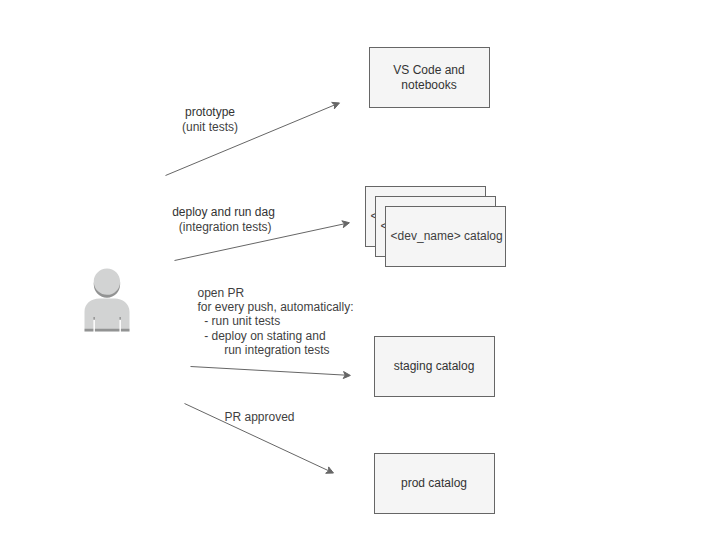
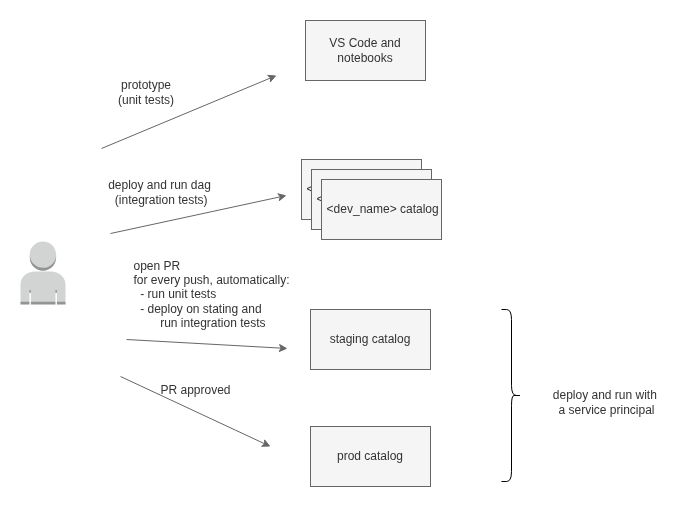
service principal (complement)

diff --git a/scripts/sdk_generate_template_job.py b/scripts/sdk_generate_template_job.py
@@ -93,7 +93,7 @@ def _build_job1(environment: str) -> dict:
         schedule = CronSchedule(quartz_cron_expression="0 0 5 * * ?", timezone_id="UTC")
 
     job = Job(
-        name="template_${bundle.target}",
+        name="job5_${bundle.target}",
         timeout_seconds=3600,
         tags=_tags(),
         environments=_environments(),
@@ -103,13 +103,14 @@ def _build_job1(environment: str) -> dict:
 
     d = job.as_dict()
     d["deployment"] = {"kind": "BUNDLE"}
-    if environment in ("staging", "prod"):
-        sp_id = _get_service_principal_id(SP_DISPLAY_NAME)
-        d["run_as"] = {"service_principal_name": sp_id}
+    # if environment in ("staging", "prod"):
+    #     sp_id = _get_service_principal_id(SP_DISPLAY_NAME)
+    #     d["run_as"] = {"service_principal_name": sp_id}
+    #     #d["permissions"] = [{"service_principal_name": sp_id, "level": "CAN_MANAGE"}]
     return d
 
 
-def _build_integration_test_job() -> dict:
+def _build_job1_integration_test(environment: str) -> dict:
     tasks = [
         Task(
             task_key="setup",
@@ -120,7 +121,7 @@ def _build_integration_test_job() -> dict:
         Task(
             task_key="run",
             depends_on=[TaskDependency(task_key="setup")],
-            run_job_task=RunJobTask(job_id="${resources.jobs.job1.id}"),
+            run_job_task=RunJobTask(job_id="${resources.jobs.job5.id}"),
         ),
         Task(
             task_key="validate",
@@ -132,18 +133,24 @@ def _build_integration_test_job() -> dict:
     ]
 
     job = Job(
-        name="template_${bundle.target}_integration_test",
+        name="job5_${bundle.target}_integration_test",
         timeout_seconds=3600,
         tags=_tags(),
         environments=_environments(),
         tasks=tasks,
     )
 
-    return job.as_dict()
+    d = job.as_dict()
+    d["deployment"] = {"kind": "BUNDLE"}
+    # if environment in ("staging", "prod"):
+    #     sp_id = _get_service_principal_id(SP_DISPLAY_NAME)
+    #     d["run_as"] = {"service_principal_name": sp_id}
+    #     #d["permissions"] = [{"service_principal_name": sp_id, "level": "CAN_MANAGE"}]
+    return d
 
 
 def main():
-    parser = argparse.ArgumentParser(description="Generate Databricks workflow YAML")
+    parser = argparse.ArgumentParser(description="Generate Databricks Jobs YAML")
     parser.add_argument("environment", help="Target environment (dev, staging, prod)")
     parser.add_argument(
         "--service-principal-id",
@@ -152,9 +159,9 @@ def main():
     )
     args = parser.parse_args()
 
-    jobs: dict = {"job1": _build_job1(args.environment)}
+    jobs: dict = {"job5": _build_job1(args.environment)}
     if args.environment in ("dev", "staging"):
-        jobs["integration_test_job"] = _build_integration_test_job()
+        jobs["job5_integration_test"] = _build_job1_integration_test(args.environment)
 
     output = {"resources": {"jobs": jobs}}
 

diff --git a/scripts/sdk_create_sp.py b/scripts/sdk_create_sp.py
@@ -22,8 +22,23 @@ def get_warehouse_id(workspace: WorkspaceClient) -> str:
 def grant_permissions(workspace: WorkspaceClient, display_name: str):
     current_user = workspace.current_user.me().user_name
     statements = [
-        f"GRANT USE ON SERVICE PRINCIPAL `{display_name}` TO `{current_user}`",
-        f"GRANT CREATE CATALOG ON METASTORE TO `{display_name}`",
+        f"GRANT CREATE CATALOG ON Metastore TO `e9839ada-817e-4fc7-abb1-2554cce3fcd8`",
+        f"GRANT BROWSE ON CATALOG staging TO `e9839ada-817e-4fc7-abb1-2554cce3fcd8`",
+        f"GRANT USE CATALOG ON CATALOG staging TO `e9839ada-817e-4fc7-abb1-2554cce3fcd8`",
+        f"GRANT CREATE SCHEMA ON CATALOG staging TO `e9839ada-817e-4fc7-abb1-2554cce3fcd8`",
+        f"GRANT USE SCHEMA ON SCHEMA staging.system TO `e9839ada-817e-4fc7-abb1-2554cce3fcd8`",
+        f"GRANT SELECT ON SCHEMA staging.system TO `e9839ada-817e-4fc7-abb1-2554cce3fcd8`",
+        f"GRANT USE SCHEMA ON SCHEMA staging.raw TO `e9839ada-817e-4fc7-abb1-2554cce3fcd8`",
+        f"GRANT MANAGE ON SCHEMA staging.raw TO `e9839ada-817e-4fc7-abb1-2554cce3fcd8`",
+        f"GRANT USE SCHEMA ON SCHEMA staging.curated TO `e9839ada-817e-4fc7-abb1-2554cce3fcd8`",
+        f"GRANT MANAGE ON SCHEMA staging.curated TO `e9839ada-817e-4fc7-abb1-2554cce3fcd8`",
+        f"GRANT USE SCHEMA ON SCHEMA staging.refined TO `e9839ada-817e-4fc7-abb1-2554cce3fcd8`",
+        f"GRANT MANAGE ON SCHEMA staging.refined TO `e9839ada-817e-4fc7-abb1-2554cce3fcd8`",
+        f"GRANT BROWSE ON CATALOG prod TO `e9839ada-817e-4fc7-abb1-2554cce3fcd8`",
+        f"GRANT USE CATALOG ON CATALOG prod TO `e9839ada-817e-4fc7-abb1-2554cce3fcd8`",
+        f"GRANT USE SCHEMA ON SCHEMA prod.system TO `e9839ada-817e-4fc7-abb1-2554cce3fcd8`",
+        f"GRANT CREATE TABLE ON SCHEMA prod.system TO `e9839ada-817e-4fc7-abb1-2554cce3fcd8`",
+        f"GRANT SELECT ON SCHEMA prod.system TO `e9839ada-817e-4fc7-abb1-2554cce3fcd8`",
     ]
     warehouse_id = get_warehouse_id(workspace)
     for sql in statements:

diff --git a/README.md b/README.md
@@ -1,6 +1,6 @@
 # databricks-template
 
-> A production-ready PySpark project template with medallion architecture, Python packaging, unit tests, integration tests, coverage tests, CI/CD automation, Databricks Asset Bundles, and DQX data quality framework.
+> A production-ready PySpark project template with medallion architecture, Python packaging, unit tests, integration tests, coverage tests, CI/CD automation, Declarative Automation Bundles, and DQX data quality framework.
 
 ![Databricks](https://img.shields.io/badge/platform-Databricks-orange?logo=databricks)
 ![PySpark](https://img.shields.io/badge/pyspark-4.1+-brightgreen?logo=apache-spark)
@@ -9,7 +9,7 @@
 
 ## 🚀 Overview
 
-This project template is designed to boost productivity and promote maintainability when developing ETL pipelines on Databricks. It aims to bring software engineering best practices—such as modular architecture, automated testing, and CI/CD—into the world of data engineering. By combining a clean project structure with robust development and deployment workflows, this template helps teams move faster with confidence.
+This project template is designed to boost productivity and promote maintainability when developing ETL pipelines on Databricks. It aims to bring software engineering best practices—such as modular architecture, automated unit and integration testing, and CI/CD—into the world of data engineering. By combining a clean project structure with robust development and deployment jobs, this template helps teams move faster with confidence.
 
 You’re encouraged to adapt the structure and tooling to suit your project’s specific needs and environment.
 
@@ -19,13 +19,13 @@ Interested in bringing these principles in your own project?  Let’s [connect o
 
 - Databricks Free Edition (Serverless)
 - Databricks Runtime 18.0 LTS
-- Databricks Asset Bundles
-- Databricks DQX
+- Databricks Unity Catalog
+- Databricks Declarative Automation Bundles (former Asset Bundles)
 - Databricks CLI
 - Databricks Python SDK
+- Databricks DQX
 - PySpark 4.1
 - Python 3.12+
-- Unity Catalog
 - GitHub Actions
 - Pytest
 
@@ -50,7 +50,7 @@ This project template demonstrates how to:
 
 <br>
 
-- utilize [Databricks Asset Bundles](https://docs.databricks.com/en/dev-tools/bundles/index.html) to package/deploy/run a Python wheel package on Databricks.
+- utilize [Databricks Declarative Automation Bundles](https://docs.databricks.com/en/dev-tools/bundles/index.html) to package/deploy/run a Python wheel package on Databricks.
 - configure jobs to run across multiple environments by generating environment-specific job definitions using the [Databricks SDK](https://docs.databricks.com/aws/en/dev-tools/sdk-python#create-a-job-that-uses-serverless-compute).
 - utilize [Databricks DQX](https://databrickslabs.github.io/dqx/) to define and enforce data quality rules, such as null checks, uniqueness, thresholds, and schema validation, and filter bad data on quarantine tables.
 - utilize [Databricks SDK for Python](https://docs.databricks.com/en/dev-tools/sdk-python.html) to manage workspaces and accounts and analyse costs. Refer to 'scripts' folder for some examples. 
@@ -67,7 +67,7 @@ For a debate on the use of notebooks vs. Python packaging, please refer to:
 - [this Linkedin thread by Ryan Chynoweth](https://www.linkedin.com/posts/ryan-chynoweth_using-databricks-notebooks-for-production-activity-7170868557621186561-eo3P)
 - [this Linkedin thread by Jaco van Gelder](https://www.linkedin.com/posts/jwvangelder_my-honest-opinion-on-notebooks-vs-python-activity-7385955500007534592-xwHa/)
 
-Sessions on Databricks Asset Bundles, CI/CD, and Software Development Life Cycle at Data + AI Summit 2025:
+Sessions on Databricks Declarative Automation Bundles, CI/CD, and Software Development Life Cycle at Data + AI Summit 2025:
 - [CI/CD for Databricks: Advanced Asset Bundles and GitHub Actions](https://www.youtube.com/watch?v=XumUXF1e6RI)
 - [Deploying Databricks Asset Bundles (DABs) at Scale](https://www.youtube.com/watch?v=mMwprgB-sIU)
 - [A Prescription for Success: Leveraging DABs for Faster Deployment and Better Patient Outcomes](https://www.youtube.com/watch?v=01JHTM2UP-U)
@@ -103,9 +103,7 @@ databricks-template/
 │       └── unit_test.py            # Pytest unit tests
 │
 ├── resources/                      # Databricks workflow templates
-│   ├── wf_template_serverless.yml  # Jinja2 template for serverless
-│   ├── wf_template.yml             # Jinja2 template for job clusters
-│   └── workflow.yml                # Generated workflow (auto-created)
+│   └── jobs.yml                    # Generated job definition (auto-created)
 │
 ├── scripts/                           # Helper scripts
 │   ├── generate_template_workflow.py  # Workflow generator (Jinja2)
@@ -122,7 +120,7 @@ databricks-template/
 ├── dist/                        # Build artifacts (Python wheel)
 ├── coverage_reports/            # Test coverage reports
 │
-├── databricks.yml               # Databricks Asset Bundle config
+├── databricks.yml               # Declarative Automation Bundle config
 ├── pyproject.toml               # Python project configuration (uv)
 ├── Makefile                     # Build automation
 ├── .pre-commit-config.yaml      # Pre-commit hooks (ruff)